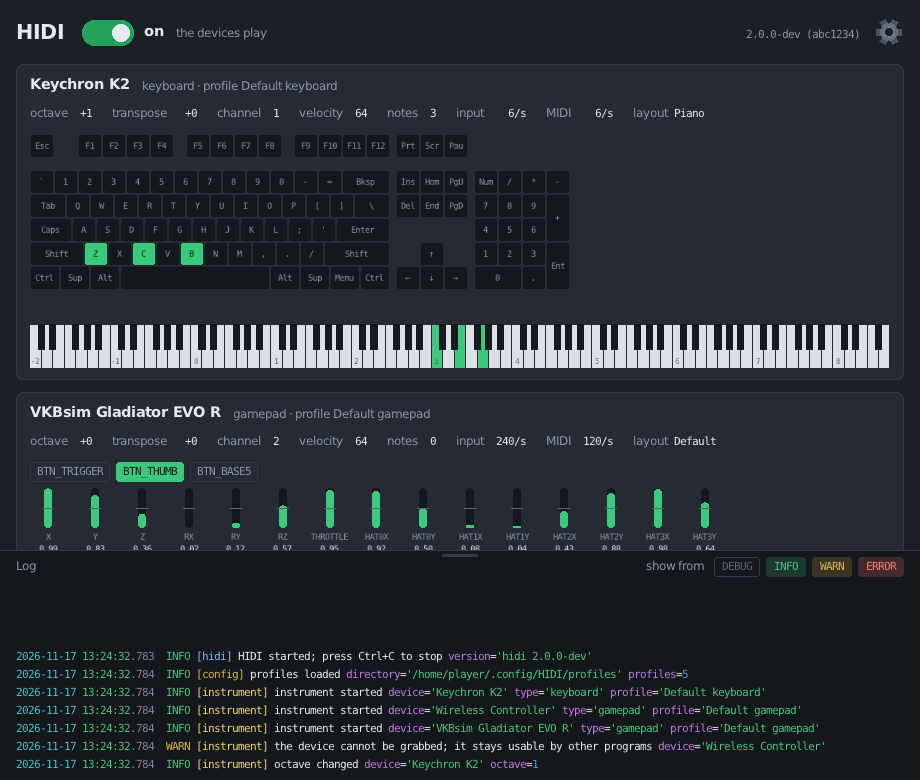
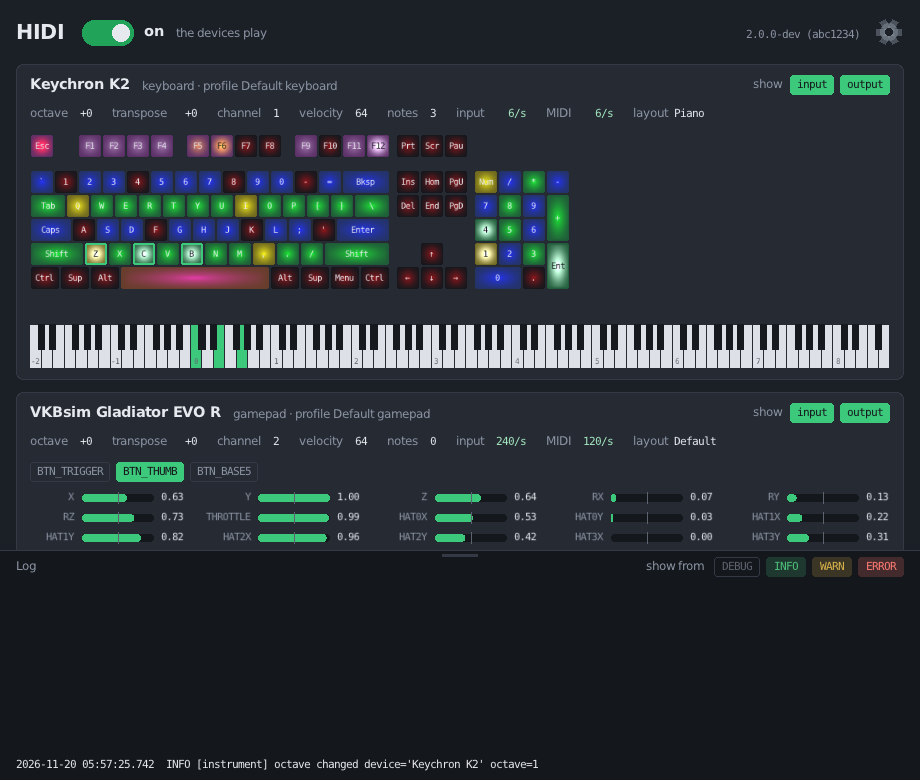
Documentation and pictures for the fifth round
The configuration reference describes "passthrough", [devices],
[lights.colours] and the two lists the window keeps. The README describes
the window as it is now and how the lights keep up. The architecture notes
say how the hub deals with the two ways OpenRGB takes updates, and how a
device is shared. The roadmap records the round and where things stand.

The pictures of the window are new, and one shows the instruments as they
are first seen.

Claude-Session: https://claude.ai/code/session_01BSpi87DutHCzCjSX2Ru5Rd

diff --git a/docs/roadmap.md b/docs/roadmap.md
@@ -51,20 +51,25 @@ completes or changes an item.
 | OpenRGB | Supported through a server the user runs. HIDI does not bundle one. |
 | Go version | The current release; 1.27 at the time of writing. |
 
-## Where things stand (17 November 2026, evening)
+## Where things stand (20 November 2026)
 
-Two pull requests carry everything since pull request 49, to be merged
-in this order:
+`dev` holds everything up to the review of the whole code (pull requests
+50 and 51). One pull request is open on top of it:
 
-1. `v2/round4`: the fourth round. The udev rule for `/dev/uinput`, the
-   Windows input fixes and the recovery of MIDI devices, the window
-   (settings as a sheet, upright axes, two frame limits), `hidi` as the
-   application with icon and window, options with two dashes, the README
-   for users, and configuring in the window (the toggle by key press,
-   MIDI ports from a list, axes and controllers in the profile editor).
-2. `v2/review`: the review of the whole code, five commits of fixes, on
-   top of the first. The fix for the silent grabbed keyboard on Windows
-   is only complete with this one.
+- `v2/round5`: the fifth round. Lights that keep up with the keyboard and
+  cannot stay behind, with colours that can be chosen; keys a profile
+  leaves to the system (`"passthrough"`); a list of the devices that play;
+  and the window: instruments in two lines with their input and notes
+  shown on request, horizontal axes, keys coloured by what they do and
+  glowing as the keyboard's lights do, grey while HIDI is off.
+
+Apart from HIDI itself: a change to raylib's Win32 backend that keeps the
+window drawing while it is moved or resized is on the maintainer's forks
+(`gethiox/raylib` and `gethiox/raylib-go`, branch
+`win32-modal-loop-frames`), and `v2/raylib-063-eval` is HIDI built with it
+and raylib-go 0.63.0, for trying on Windows. It is not for merging as it
+is: raylib-go 0.63.0 replaces GLFW by backends of its own, a day old when
+it was tried, and needs `libEGL` on Linux.
 
 ### Waiting for the maintainer
 
@@ -74,11 +79,17 @@ To be tried on Windows, none of which has run there:
   it, "Quit HIDI", and how much of a console window is seen.
 - A grabbed keyboard: playing, the three-key toggle, and
   `hidi.exe --toggle=KEY_CAPSLOCK --toggle-tap`.
+- A key bound to `"passthrough"`: does it type while the others play.
 - The four hats of the Gladiator, and whether its buttons play.
 - `taskkill /F /IM midisrv.exe` while HIDI runs: do the instruments come
   back, and does the DAW find them again.
 - An Xbox controller.
 - The window at 120 Hz: is motion smooth now.
+- `v2/raylib-063-eval`: moving and resizing the window.
+
+To be tried with a keyboard OpenRGB lights, which was not at hand: that a
+released key goes dark at once, how fast the lights follow while playing,
+and the glow in the window beside the real keyboard.
 
 To be decided:
 
@@ -91,19 +102,21 @@ To be decided:
 - Whether the rest of the profile editor belongs in the beta.
 - If the console window that flashes on a double click disturbs: a
   second program file without a console.
-- The branches `v2/docs` and `v2/windows-round3` on GitHub are left over
-  and can be deleted; `v2/docs` holds what the two pull requests hold.
+- Whether the raylib change goes to raylib, and when HIDI moves to
+  raylib-go 0.63.
 
 ### Left to do
 
 - The rest of configuring in the window: the two halves of an axis bound
   apart, program changes, keys with modifiers, the options of a note,
-  adding and removing layouts, a new profile for a device, and the
-  lights on the settings sheet.
-- A running HIDI follows changed `connect` ports only at its next start.
+  adding and removing layouts, and a new profile for a device.
+- A running HIDI follows changed `connect` ports, and the switch and the
+  address of OpenRGB, only at its next start.
+- Two keyboards with lights are written one after the other, so each
+  follows at half the pace it could.
 - No start at login yet.
 - What the review found and left as it is; see below.
-- What comes back from the Windows tests above.
+- What comes back from the tests above.
 - Turning on immutable releases, the first tag (which is also the first
   run of the release workflow), and the pull request from `dev` into
   `main`.
@@ -252,6 +265,24 @@ Found and left as it is, by choice:
   without end; the router holds its lock while it lists and connects.
 - An entry of `connect` is a part of a name, so a port whose name is the
   beginning of another's selects both.
+
+### Fifth round (20 November 2026): what was asked for, and what was done
+
+| Asked for | What was done |
+|---|---|
+| The lights of a keyboard lag, and a released key can stay lit for up to a second. | Two causes, both in how OpenRGB takes updates that come faster than the keyboard is written. Released versions lose an update that arrives during a write; current ones take it only after the write, so updates queue up. The hub now sends a change at once, waits for the server to take it before sending the next (which is then the newest scene), and repeats what it sent last four times within a second. |
+| Instruments compact by default; input and output shown by a switch. | Two lines per instrument. "show: input, output" on every card, remembered per device in `settings.toml`. |
+| The numbers for input and MIDI tinted while not zero. | Done. |
+| Axes horizontal again, more of them in a row, values in the fixed-width font. | A row takes as many as fit: five in the window's first size. |
+| A blacklist or whitelist of devices in the settings. | `[devices]` with `mode` and `list`, by name; the settings sheet lists the devices that are connected and, in grey, those met before (kept in `.devices.json`). A running HIDI follows. |
+| Keys in the main view coloured as in the profile editor, and glowing as the keyboard's lights do. | The snapshot carries what every key does and what the hub last sent to the lights. The glow is a blurred dot stretched over the key, added to the colour of the cap. |
+| What is pressed shown in grey while HIDI is off. | Keys, buttons and axes. |
+| A key held while HIDI is off lights up on the keyboard. | The colour `pressed`. |
+| Keys a layout leaves to the system. | `KEY_SPACE = "passthrough"`. The device is shared instead of grabbed: the hook lets the key through on Windows, and on Linux it is typed again through `/dev/uinput`. The profile editor has a button for it. |
+| The colours of the lights can be chosen, the one of passed keys too. | `[lights.colours]`, twelve colours, with sliders on the settings sheet; a running HIDI follows. The sixteen channel colours stay as they are. |
+
+Not tried: anything of this on Windows, and the lights on a real keyboard;
+the hub was tried against servers made for the tests, one of them slow.
 
 ## Done
 

diff --git a/docs/configuration.md b/docs/configuration.md
@@ -37,13 +37,14 @@ A file with a mistake is not used: HIDI says what is wrong and runs with the
 defaults.
 
 A running HIDI notices within about two seconds when the file changes, and
-takes over the toggle combination and what is grabbed: a keyboard that
-should type again does so at once. `start_on`, `connect`, `[lights]` and
+takes over the toggle combination, what is grabbed, which devices play and
+the colours of the lights: a keyboard that should type again does so at
+once. `start_on`, `connect`, `lights.openrgb`, `lights.address` and
 `show_at_start` matter when HIDI starts. A changed file with a mistake is
 reported and changes nothing.
 
-The switches and the frame limits can also be changed in the window, on the
-sheet the gear opens.
+Everything here can also be changed in the window, on the sheet the gear
+opens, except the address of the OpenRGB server.
 
 ```toml
 schema = 1
@@ -56,6 +57,10 @@ start_on = true
 toggle_tap = false
 always_grab = false
 
+[devices]
+mode = "blacklist"
+list = []
+
 [output]
 connect = []
 
@@ -63,11 +68,27 @@ connect = []
 openrgb = false
 address = "127.0.0.1:6742"
 
+[lights.colours]
+white = "#005500"
+black = "#000055"
+c = "#555500"
+unbound = "#440000"
+playing = "#ffffff"
+external = "#ffffff"
+command = "#ffffff"
+panic = "#ff0000"
+other = "#003030"
+passthrough = "#400040"
+idle = "#181818"
+pressed = "#ffffff"
+
 [window]
 show_at_start = false
 fps = 0
 background_fps = 0
 log_height = 0
+show_input = []
+show_output = []
 ```
 
 | Setting | Meaning | Option |
@@ -78,13 +99,36 @@ log_height = 0
 | `input.start_on` | Whether HIDI is on when it starts. | `--off` |
 | `input.toggle_tap` | The toggle is one key and works by a tap. See below. | `--toggle-tap` |
 | `input.always_grab` | Linux: keep keyboards grabbed while HIDI is off too, so that the tapped key is hidden. See below. | `--always-grab` |
+| `devices.mode` | How `devices.list` is read: with `"blacklist"` every keyboard and game controller plays except the listed ones, with `"whitelist"` only the listed ones do. | |
+| `devices.list` | Names of devices, as HIDI shows them. Two devices of one name are treated alike. | |
 | `output.connect` | Existing MIDI ports every instrument also sends to. | `--connect` |
 | `lights.openrgb` | Light the keys of keyboards through an OpenRGB server. | `--openrgb` |
 | `lights.address` | Where that server listens. | `--openrgb ADDRESS` |
+| `lights.colours` | The colours of the keys, each as `"#rrggbb"`. See below. | |
 | `window.show_at_start` | Open the window when HIDI starts; without it HIDI starts as an icon in the tray. | |
 | `window.fps` | The most the window is drawn per second; 0 sets no limit, and the window keeps to the monitor's refresh rate. | `--fps` |
 | `window.background_fps` | The same limit for while another window has the focus; 0 sets none of its own. | `--background-fps` |
 | `window.log_height` | The height of the log when the window opens. | `--log-height` |
+| `window.show_input`, `window.show_output` | The instruments whose input and whose notes are drawn in the window, by the names of their devices. The window keeps these lists itself. | |
+
+#### The colours of the lights
+
+| Colour | What it lights |
+|---|---|
+| `white`, `black`, `c` | Keys that play a white key of a piano, a black one, and a C. |
+| `unbound` | Keys that do nothing. |
+| `playing` | A key whose note sounds because of this instrument. |
+| `external` | A key whose note another program sent on the instrument's channel. |
+| `command` | The keys that run commands. They show state in three steps of brightness, of which this colour is the brightest. |
+| `panic` | The panic key. |
+| `other` | Keys that send something else: a controller, a program change, a pitch bend. |
+| `passthrough` | Keys that are left to the system. |
+| `idle` | Every key while HIDI is off. |
+| `pressed` | A key that is held while HIDI is off. |
+
+The keys that change the MIDI channel take the colour of the channel, and a
+note another program sends on another channel takes that channel's colour;
+those sixteen colours are fixed.
 
 #### One key that turns HIDI off and on
 
@@ -311,7 +355,21 @@ The short forms cover the common cases:
 KEY_Z = "C1"            # play a note, by name
 KEY_X = 38              # play a note, by number
 KEY_F2 = "octave_up"    # run a command
+KEY_SPACE = "passthrough"   # leave the key to the system
 ```
+
+**`"passthrough"`** leaves a key to the rest of the system. It plays nothing,
+and it types what it always types, also while HIDI is on and the other keys
+of the keyboard do not. That is for the keys the program you play into
+needs: the space bar that starts and stops a recording, for one. Only a key
+of the main part of a device, pressed alone, can be passed through, and
+which keys are follows the layout that is selected.
+
+On Windows a passed key gets through whichever keyboard it is pressed on,
+since Windows cannot tell keyboards apart there. On Linux HIDI types the key
+again on a keyboard of its own, which needs access to `/dev/uinput` (the
+udev rule that comes with HIDI gives it); without that access the key does
+nothing while HIDI is on, and HIDI says so in its log.
 
 Note names are a letter, an optional `#` or `b`, and an octave from -2 to 8.
 Middle C (note 60) is `C3`.

diff --git a/README.md b/README.md
@@ -163,10 +163,22 @@ turns HIDI off and on" in the
 
 ## The window
 
-Each instrument shows its state, what its device reports, and the notes that
-are played because of it. A keyboard is drawn as a full-size keyboard with
-the keys that are down lit. Every other device shows the buttons and axes it
-has reported so far. The switch at the top turns HIDI on and off.
+Each instrument has two lines: its name and profile, and its state. The
+numbers for input and MIDI turn green while something comes in or goes out.
+The switches "input" and "output" beside "show" add what the device reports
+and the notes that are played because of it; the window remembers them for
+every device.
+
+A keyboard is drawn as a full-size keyboard. Every key has the colour of
+what it does in the layout that is selected, and the keys that are down
+stand out. Where HIDI lights the keyboard through OpenRGB, the keys also
+glow in the colours of their lights, so the drawing shows what the keyboard
+shows. Every other device shows the buttons and axes it has reported so far.
+While HIDI is off, what is pressed shows in grey.
+
+![The instruments as they are first shown, in two lines each](docs/images/gui-compact.png)
+
+The switch at the top turns HIDI on and off.
 
 The log lives in the bar at the bottom, which shows its last line, faint.
 Pull the bar up, or click it, for the whole log, and choose the least severe
@@ -181,15 +193,20 @@ instruments. A click beside the sheet closes it.
 
 ![The settings](docs/images/gui-settings.png)
 
-Everything in `settings.toml` except the lights can be changed there. A
-running HIDI takes most of it over within a few seconds; the page says what
-matters only at the next start.
+What is in `settings.toml` can be changed there. A running HIDI takes most
+of it over within a few seconds; the page says what matters only at the next
+start.
 
 - "Change" beside the toggle combination takes a new one from the keyboard:
   press the keys together and let go. One key alone works too, and can then
   be made to work by a tap.
+- "Devices that play" chooses which devices become instruments: every one
+  except those you tick, or only those you tick. The list has the devices
+  that are connected and, in grey, those HIDI has seen before.
 - "Also send to MIDI ports" lists the MIDI ports that exist. A click on one
   makes every instrument send there as well.
+- "Colours of the keys" are the colours of the lights. Click one and move
+  the three sliders; the keyboard follows when you let go.
 
 Below them are the places where
 settings and profiles are kept, with buttons that open them in the file
@@ -353,7 +370,17 @@ also when it starts later.
 - The command keys show state: the octave and transpose keys grow brighter
   the further they have been used, the layout keys dim at the first and last
   layout, the channel keys take the colour of the channel, panic is red.
-- While HIDI is off the keyboard is lit evenly, and types.
+- Keys that are left to the system have a colour of their own.
+- While HIDI is off the keyboard is lit evenly, and types; a key that is
+  held lights up.
+
+Every one of these colours can be changed, in the window's settings or under
+`[lights.colours]` in `settings.toml`.
+
+How fast the lights follow is up to the keyboard, which takes some tens of
+milliseconds to be written. HIDI sends a change at once and the next one as
+soon as OpenRGB has taken the one before, so nothing queues up behind a slow
+keyboard.
 
 With the lights on, each instrument's MIDI device can also be sent to. Notes
 another program sends there, a DAW playing a track for one, light the keys

diff --git a/docs/architecture.md b/docs/architecture.md
@@ -148,8 +148,19 @@ service for a while that grows from ten seconds to five minutes.
 it is a pure function of what the keys do in the selected layout, the
 instrument's state, the notes that sound and whether HIDI is on. A hub owns
 the connection to OpenRGB, finds for each instrument the keyboard among the
-server's controllers, and sends colours only when they changed, a few dozen
-times a second at most. OpenRGB says where it reaches a keyboard, not which
+server's controllers, and sends colours only when they changed.
+
+A keyboard takes some tens of milliseconds to be written, and how OpenRGB
+deals with updates that come faster differs between its versions. Released
+ones note that there is something to write and forget the note when the
+write in progress ends, so an update that arrives during a write is lost
+until the next one. Newer ones take an update only when the write before is
+done, so updates queue up in the connection and the lights fall behind. The
+hub is safe against both: it sends a change at once, then asks the server a
+question that is answered in order and waits for the answer before it sends
+the next change, which is then the newest scene; and it sends what it sent
+last a few more times over the following second. What the hub last sent is
+also what the window draws as the glow of the keys. OpenRGB says where it reaches a keyboard, not which
 input device that is, so the two are matched by model and, on Linux, by the
 port the system reports for both.
 
@@ -175,6 +186,13 @@ While an instrument is active its device does not type or click.
   and the key goes to the keyboard that Raw Input last saw typing
   (`rawinput.claims`). Windows has no way to keep a game controller from
   other programs, so `--grab-gamepads` has no effect there.
+
+A profile can leave single keys to the system while the others play
+(`"passthrough"`). The device is then shared instead of grabbed
+(`input.Passer.Share`): on Windows the hook lets those keys through; on
+Linux, where a device is grabbed whole or not at all, HIDI types them again
+on a keyboard of its own, as it does for `always_grab`. Which keys are open
+follows the selected layout.
 
 Game controllers on Windows are read in two ways, because no single
 interface serves all of them well:
